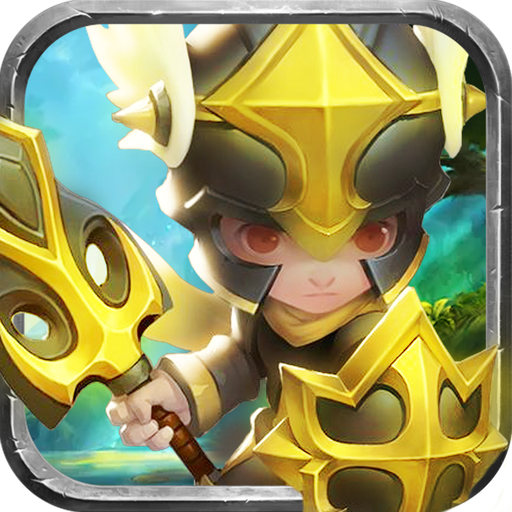
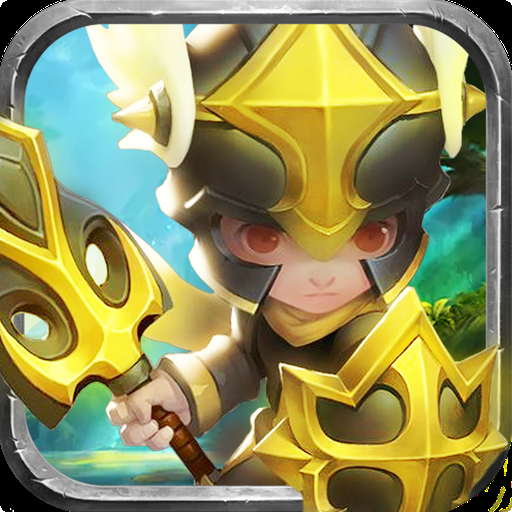
更新了icontools添加圆角方法

diff --git a/iconTool/autoicon.py b/iconTool/autoicon.py
@@ -5,7 +5,10 @@
 import argparse;
 import os,os.path,sys,shutil;
 from PIL import Image;
+from PIL import ImageDraw;
 import threading
+reload(sys);
+sys.setdefaultencoding("utf-8");
 
 #iconName:
 iconName = 'icon.png';
@@ -108,6 +111,30 @@ def save_ImgRGBFile(sInFile,sOutFile,sWidth,sHeight):
     p.save(sOutFile, 'png', quality=100);
     p.close();
 
+ #6、常规保存图片
+def sava_ImgNomalFile(sInFile,sOutFile,sWidth,sHeight):
+    img = modify_ImgSize(sInFile, sWidth, sHeight);
+    img.save(sOutFile, 'png', quality=100);
+    img.close();
+
+#7、图片切成圆角
+def circle_corder_image(sInFile,sOutFile):
+    im = Image.open(sInFile).convert("RGBA");
+    rad = 10;  # 设置半径
+    circle = Image.new('L', (rad * 2, rad * 2), 0);
+    draw = ImageDraw.Draw(circle);
+    draw.ellipse((0, 0, rad * 2, rad * 2), fill=255);
+    alpha = Image.new('L', im.size, 255);
+    (w,h)= im.size;
+    alpha.paste(circle.crop((0, 0, rad, rad)), (0, 0));
+    alpha.paste(circle.crop((0, rad, rad, rad * 2)), (0, h-rad));
+    alpha.paste(circle.crop((rad, 0, rad * 2, rad)), (w-rad, 0));
+    alpha.paste(circle.crop((rad, rad, rad * 2, rad * 2)), (w - rad, h - rad));
+    im.putalpha(alpha);
+    im.save(sOutFile, 'png', quality=100);
+    pass;
+
+
 #创建或更新文件/文件夹
 def update_ImgPath(sPath):
     isPath = os.path.exists(sPath);
@@ -156,6 +183,7 @@ def serach_ImgPath():
 def markAndroidImgFile():
     global iconName,target_Android_path;
     update_ImgPath(target_Android_path);
+    #遍历所有图片
     mackDir = serach_ImgPath();
     if (len(mackDir) == 2):
         base_img = Image.open(mackDir[0]);
@@ -183,6 +211,8 @@ def translate_ImgModel():
        save_ImgRGBFile(hImg,sIconName,0,0);
     else:
         print("白底的/不透明的");
+        sIconName = target_iconRGB_path + iconName;
+        sava_ImgNomalFile(hImg,sIconName,0,0);
     pass;
 
 
@@ -244,7 +274,7 @@ def convertIcon(i,width, reName):
 
 
 if __name__ == '__main__':
-    #检查图片通道并保存;
+    # #检查图片通道并保存;
     markAndroidImgFile();
     translate_ImgModel();
     creat_iOSIcon();

diff --git a/codeTool/addcode.py b/codeTool/addcode.py
@@ -6,10 +6,9 @@ import string,sys,json;
 import time
 import datetime
 import hashlib 
-
-#获取一个随机名称
 reload(sys);
 sys.setdefaultencoding("utf-8");
+#获取一个随机名称
 script_path = os.path.split(os.path.realpath(sys.argv[0]))[0];
 #####################################################################################
 # .m文件里创建的元素的类型从这个数组里随机选
